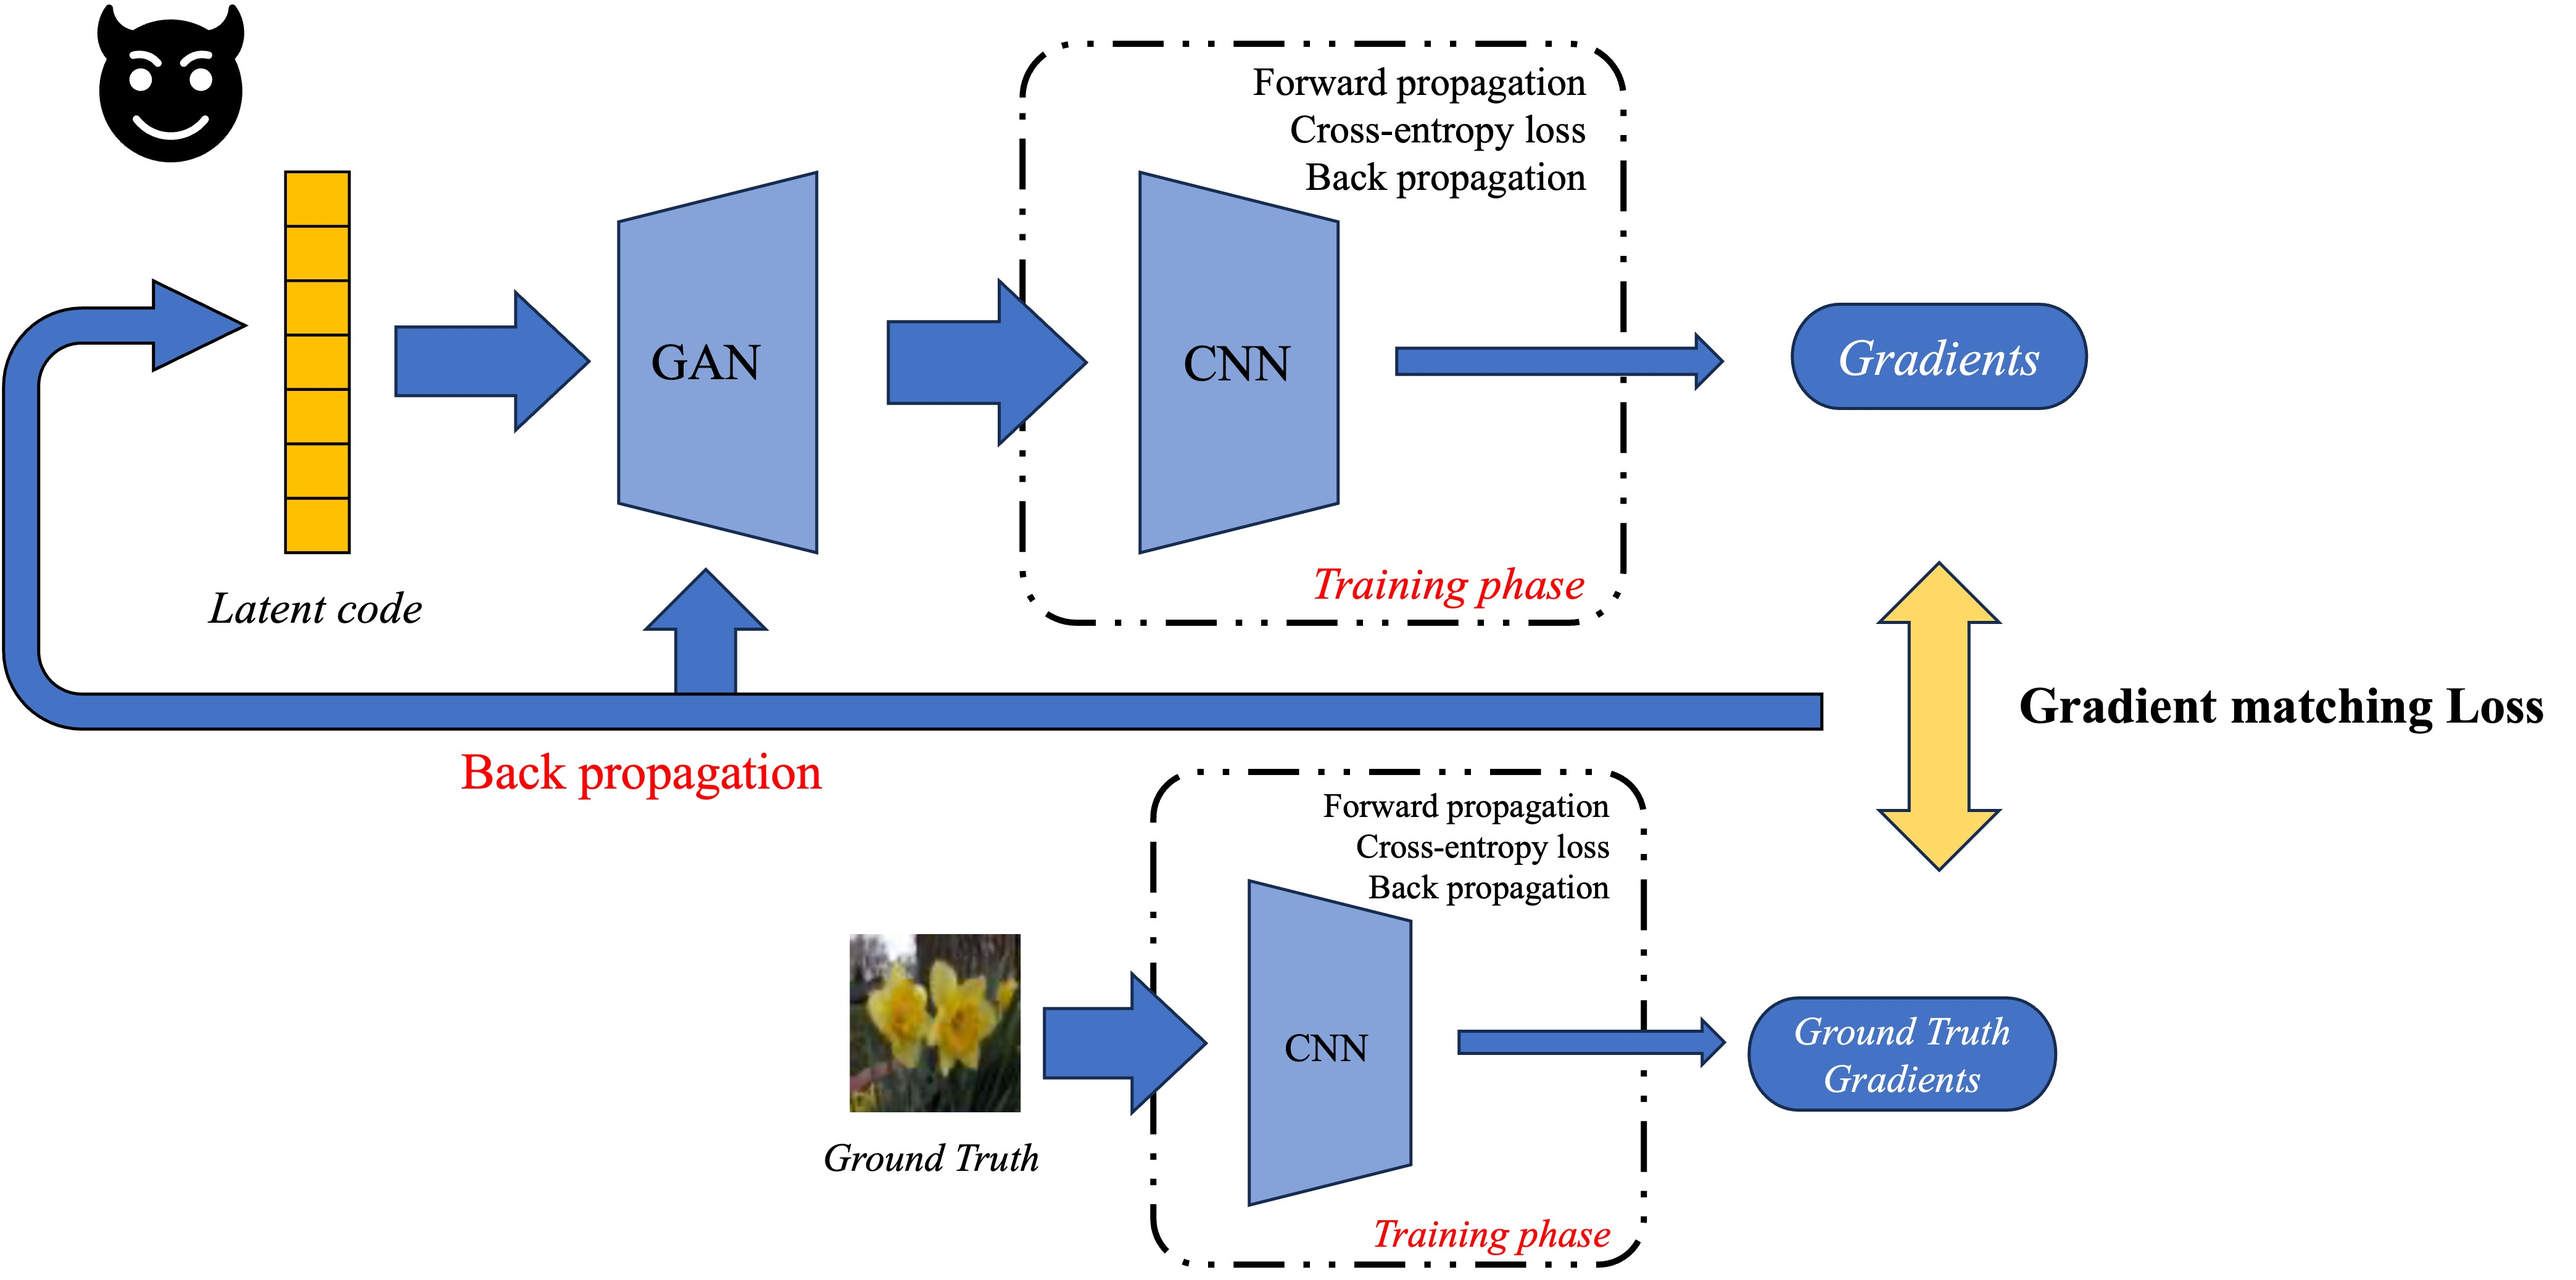
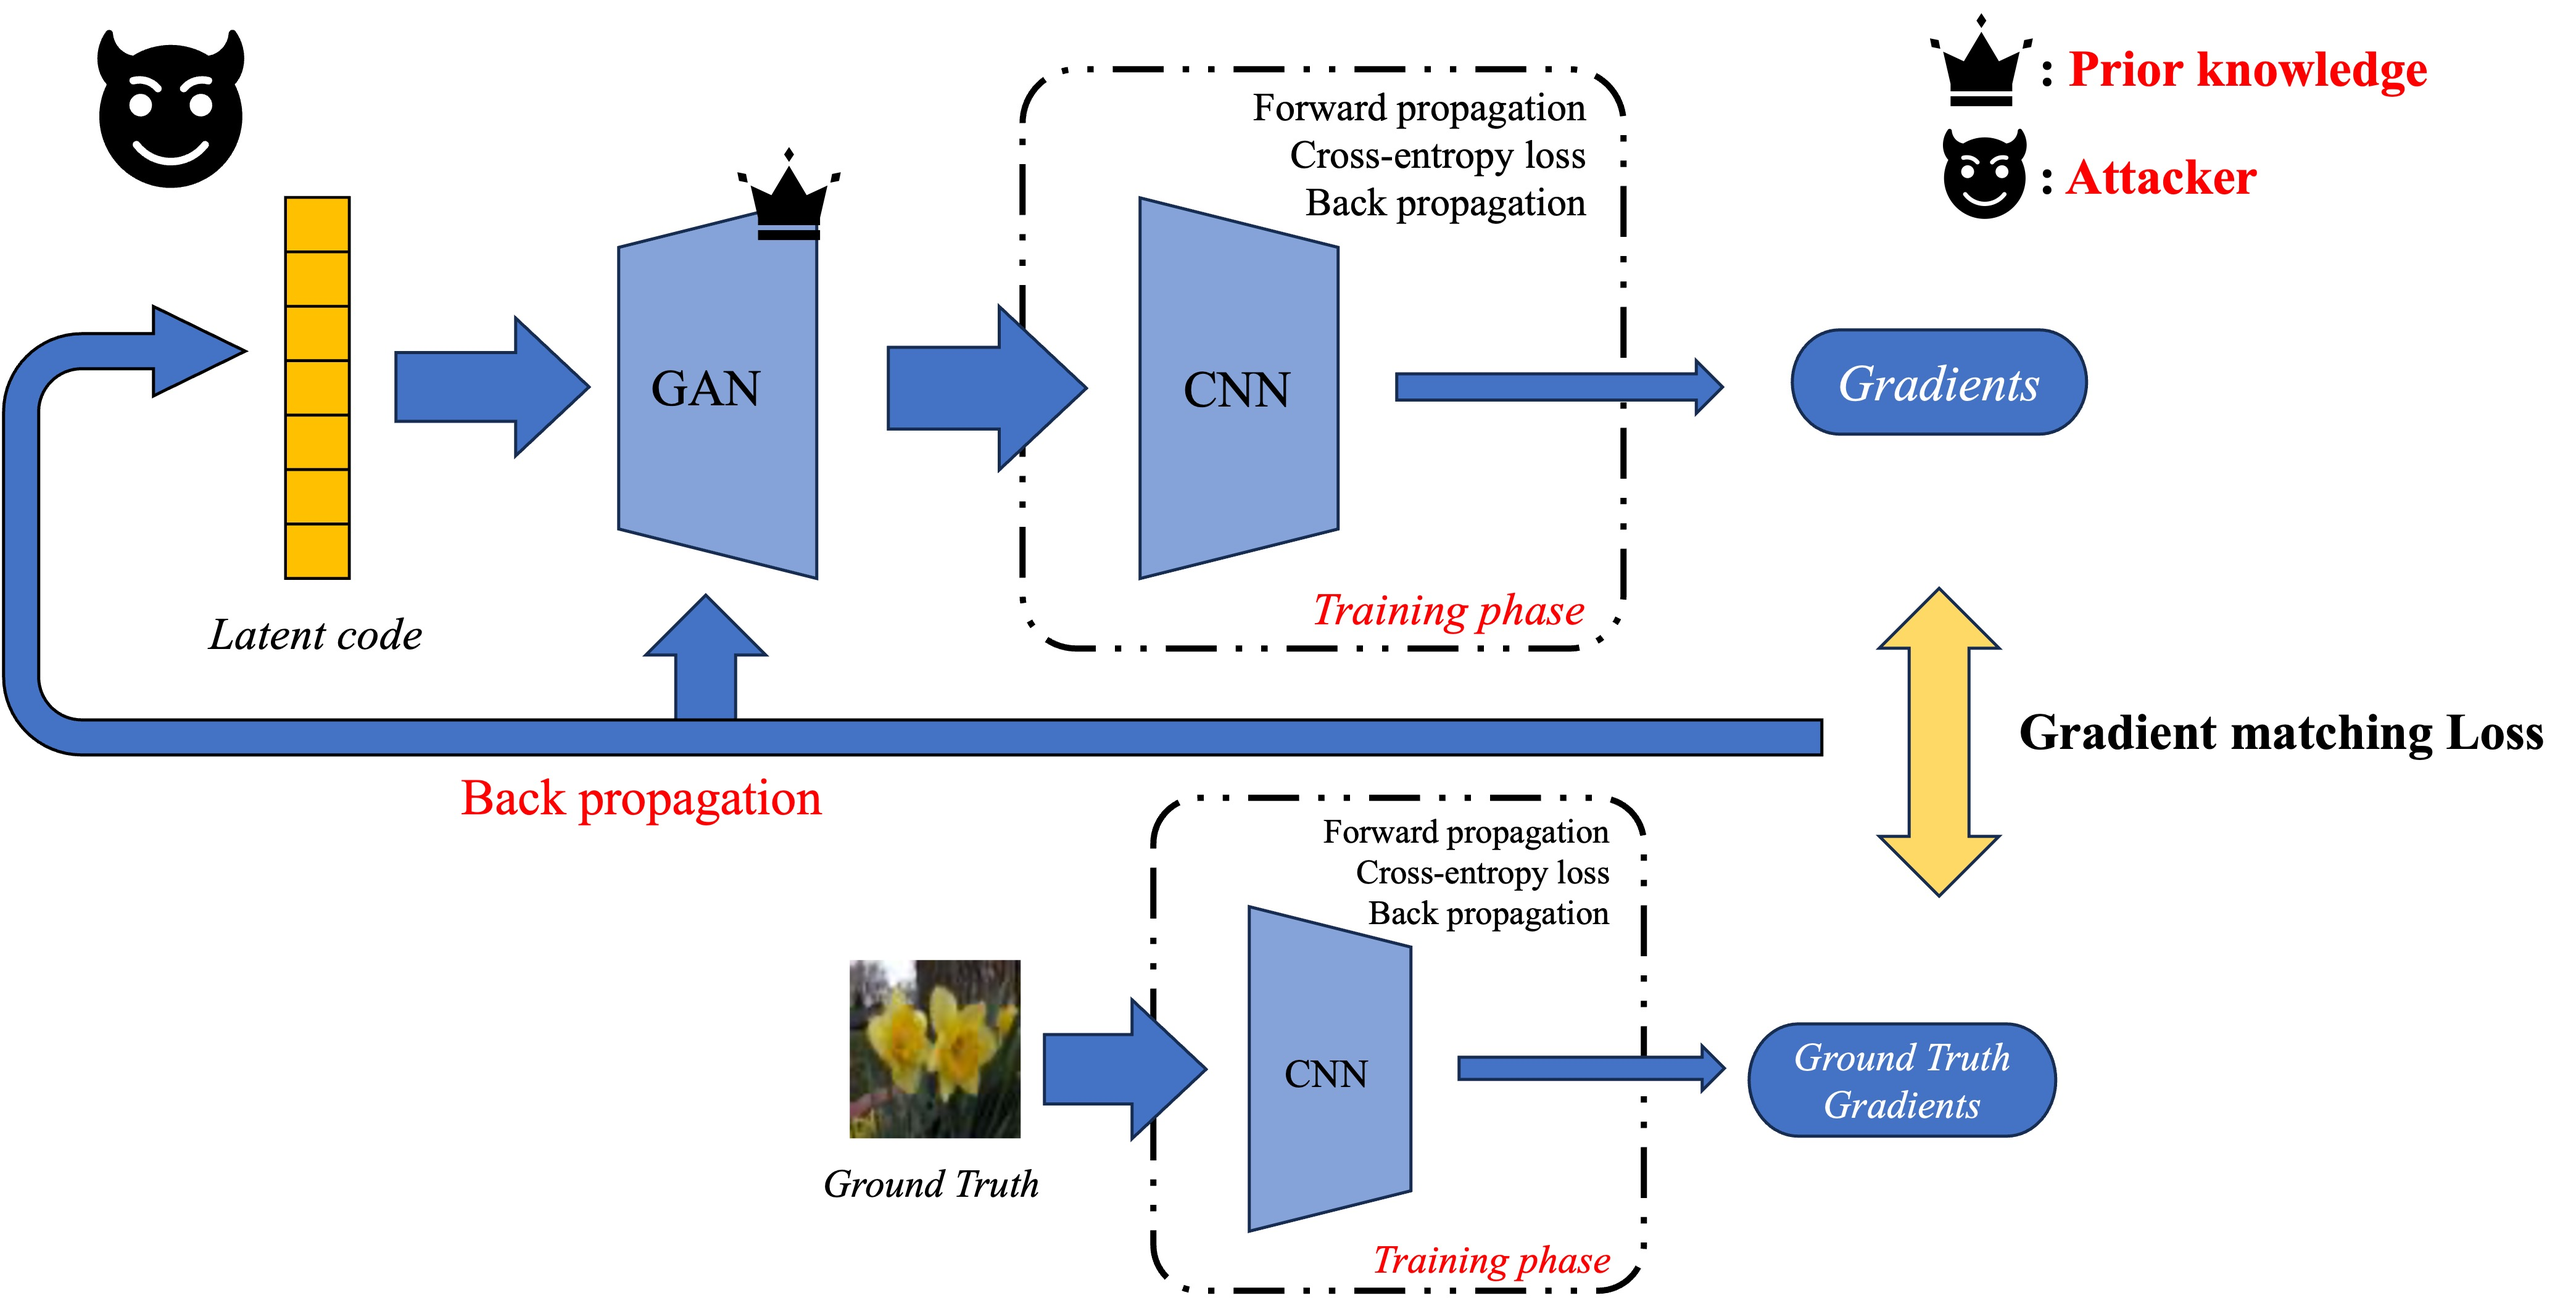
cache

diff --git a/_posts/2024-05-07-Understand-gradient-inversion-attacks-from-the-prior-knowledge-perspective.md b/_posts/2024-05-07-Understand-gradient-inversion-attacks-from-the-prior-knowledge-perspective.md
@@ -1,7 +1,7 @@
 ---
 layout: distill
 title: Understanding gradient inversion attacks from the prior knowledge perspective
-description: In this blogpost, we mention multiple works in gradient inversion attacks, point out the core question we need to solve in GIAs and provide an perspective from prior knowledge to understand the logic behind recent papers.
+description: In this blogpost, we mention multiple works in gradient inversion attacks, point out the core question we need to solve in GIAs, and provide a perspective from prior knowledge to understand the logic behind recent papers.
 date: 2024-11-27
 future: true
 htmlwidgets: true
@@ -70,23 +70,45 @@ This is a **white-box** attack, for its requirement for full model parameters to
 ## The core question in GIAs
 In GIA, the core question, which has not been solved yet, is the reconstruction of batched input data, where **multiple samples share the same labels**. Previous works headed towards such a goal by a few steps: they first recovered single input data, then extended them to batches with known labels, and added a new algorithm to recover batched one-hot labels before recovering input images. However, to the best of my knowledge, it is still limited to the situation where **for every class there could be at most one sample in a batch**. Batched data recovery with repeated labels is still a failure for all current algorithms. The key reason for this failure lies in the information discard of averaged gradients.
 ### A simple example of information discards in MLPs
-Here we conduct a simple experiment to illustrate the existence of information discard in GIAs. We pick a 4-layer MLP as the target neural network and randomly select a few images from the Flowers-17 dataset as the private input data for recovery. Without any assistance from prior knowledge, $l_2$ and Cosine similarity loss are considered as the gradient matching functions.
-<div class="row mt-3">
-    <div class="bs1_l2">
+Let's first take a look at a simple neural network: MLP. In a specific layer, it takes in intermediate features $\mathbf{x}$ and outputs a result of matrix multiplication $\mathbf{z}=\mathbf{Wx}+\mathbf{b}$. To recover the input from gradients, we could simply use the bias attack<d-cite key="geiping2020inverting"></d-cite>:
+
+$$\frac{\partial \mathcal{L}}{\partial {\mathbf{W}}}=\frac{\partial \mathcal{L}}{\partial \mathbf{z}} \times \frac{\partial \mathbf{z}}{\partial {\mathbf{W}}}=\frac{\partial \mathcal{L}}{\partial {b}}\mathbf{x}^\mathrm{T}$$
+
+In the above equation, it is clear that for a single input, with full access to model weights and gradients, the gradients of the MLP contain full information to execute single-image recovery. However, if the batchsize is enlarged, the size of gradient vectors remains unchanged, then this is where information discards appear. Consider such a situation where there are two inputs for the specific layer without activations, then we have
+
+$$\frac{\partial \mathcal{L}}{\partial {\mathbf{W}}}=\frac{\partial \frac{\mathcal{L_1}+\mathcal{L_2}}{2}}{\partial \mathbf{W}}=\frac{1}{2}\frac{\partial \mathcal{L_1}}{\partial \mathbf{W}}+\frac{1}{2}\frac{\partial \mathcal{L_2}}{\partial \mathbf{W}}=\frac{\partial \mathcal{L_1}}{\partial {b}}\mathbf{x_1}^\mathrm{T}+\frac{\partial \mathcal{L_2}}{\partial {b}}\mathbf{x_2}^\mathrm{T}$$
+
+Now it is pretty hard to conclude that $\mathbf{x_1}$ and $\mathbf{x_2}$ can be uniquely and accurately solved from gradients because the introduction of addition operator enlarges the feasible solution set. For a real MLP with multiple layers and activations, it only gets more complicated and less likely to recover unique, accurate input images.
+
+Here, we conduct a simple experiment to illustrate the existence of information discard in GIAs. We pick a 4-layer MLP as the target neural network and randomly select a few images from the Flowers-17 dataset as the private input data for recovery. Without any assistance from prior knowledge, $l_2$ and Cosine similarity loss are considered as the gradient matching functions. firstly, we provide an example of input image recovery when **batchsize=1 with known labels**.
+
+<div class="row">
+    <div class="col-sm-4 offset-md-2">
         {% include figure.html path="assets/img/2024-05-07-Understand-gradient-inversion-attacks-from-the-prior-knowledge-perspective/bs1_l2.gif" class="img-fluid rounded z-depth-1" %}
     </div>
-    <div class="bs1_cos">
+    <div class="col-sm-4 offset-md-0">
         {% include figure.html path="assets/img/2024-05-07-Understand-gradient-inversion-attacks-from-the-prior-knowledge-perspective/bs1_cos.gif" class="img-fluid rounded z-depth-1" %}
     </div>
 </div>
+<div class="caption">
+      Image reconstruction with $l_2$ loss (left) and cosine similarity loss (right). no regularization terms are adopted.
+</div>
+
+It is not surprising that both functions could recover the input data well, even though there still exists tiny noises. Such a good performance is mainly because FCN's gradients contain enough information of intermediate features for single inputs. From related literatures, we could conclude that GIA works well on single inputs with ground-truth one-hot labels.
+
+This problem is also covered in R-GAP, a recursive attack to recover input images from gradients. This series of works start from the equation solving perspective,  expecting to solve the intermediate vector layer by layer recursively, and finally get the input of the first layer (input image). 
+
 ## Understanding GIA from the prior Knowledge perspective
 Realizing the information discards, reviewing the recent paper through the prior knowledge perspective may help understand the logic better. To achieve better image reconstruction quality, it is natural to consider the prior knowledge of images as the complement. Here, the prior knowledge could be explained in three aspects.
 
 ### Unparameterized regularization terms
-In Geiping's work of IG<d-cite key="geiping2020inverting"></d-cite>, they utilize the total variance as a regularization because they believe a real image taken from nature should have a small total variance. That is the first prior knowledge term utilized in the gradient matching function, and it turns out to function well. After that, in GradInversion<d-cite key="yin2021see"></d-cite> this regularization term is extended to include batch normalization supervision, $$l_2$$ norms and group consistency. This is a stronger prior knowledge implying that a real input image, or batched real images, except for total variance, should also possess lower $$l_2$$ norms, proper intermediate mean and the variance for batch normalization layers. Apart from that, all reconstructions from different random initializations ought to reach a group consistency. These terms are unparameterized, and it is clearly demonstrated in their ablation experiments that these terms matter significantly in reconstructing high-quality images.
+In IG<d-cite key="geiping2020inverting"></d-cite>, they utilize the total variance as a regularization because they believe a real image taken from nature should have a small total variance. That is the first prior knowledge term utilized in the gradient matching function, and it turns out to function well. After that, in GradInversion<d-cite key="yin2021see"></d-cite> this regularization term is extended to include batch normalization supervision, $$l_2$$ norms and group consistency. This is a stronger prior knowledge implying that a real input image, or batched real images, except for total variance, should also possess lower $$l_2$$ norms, proper intermediate mean and the variance for batch normalization layers. Apart from that, all reconstructions from different random initializations ought to reach a group consistency. These terms are unparameterized, and it is clearly demonstrated in their ablation experiments that these terms matter significantly in reconstructing high-quality images.
 ### Generative models
-Keep following the logic that recent works require some other conditions as prior knowledge to reinforce the information discards from gradients, generative models, especially GANs, could serve as a strong tool to encode what "real images" should be. The way to add GAN's generator in gradient matching processes is simple<d-cite key="jeon2021gradient"></d-cite>: instead of optimizing direct image pixels, with the generator we could keep the backpropagation way back to the latent space, then alter the latent code as well as the parameter of the generator to produce recovered images. Pre-trained generators naturally encode a likely distribution of the input data, which is a stronger prior knowledge compared with previous unparameterized regularization terms.
+Keep following the logic that recent works require some other conditions as prior knowledge to reinforce the information discards from gradients, generative models, especially GANs, could serve as a strong tool to encode what "real images" should be. The way to add GAN's generator in gradient matching processes is simple<d-cite key="jeon2021gradient"></d-cite>: instead of optimizing direct image pixels, with the generator we could keep the backpropagation way back to the latent space, then alter the latent code as well as the parameters of the generator to produce recovered images. Pre-trained generators naturally encode a likely distribution of the input data, which is a stronger prior knowledge compared with previous unparameterized regularization terms.
 {% include figure.html path="assets/img/2024-05-07-Understand-gradient-inversion-attacks-from-the-prior-knowledge-perspective/Picture2.jpg" class="img-fluid" %}
 ### End-to-end networks
 Actually, the most intuitive way to conduct a GIA is to design a function that takes gradients as input and then outputs recovered images. For a target network, image-gradient tuples are easy to collect, therefore the prior knowledge could be encoded in such an end-to-end neural network through model training.  
+{% include figure.html path="assets/img/2024-05-07-Understand-gradient-inversion-attacks-from-the-prior-knowledge-perspective/Picture3.jpg" class="img-fluid" %}
+
+Here, the neural network resembles a GAN generator which takes in representation vectors and outputs a synthesized image. However, instead of abstract latent codes, such network recieves gradient vectors to generate images. In implementations, Wu et.al<d-cite key="wu2023learning"></d-cite> utilizes *feature hashing* to reduce the dimension of gradient vectors. For network picking, they use a simple 3-layer MLP to generate flattened images, which is different from widely-used GAN sturctures.
 However, such a method faces multiple difficulties, such as large input sizes and limited structural flexibility.

diff --git a/_posts/2024-05-07-distill-example.md b/_posts/2024-05-07-distill-example.md
@@ -119,10 +119,10 @@ Some more complex ways to load images (note the different styles of the shapes/s
 </div>
 
 <div class="row mt-3">
-    <div class="col-sm mt-3 mt-md-0">
+    <div class="col-lg mt-3 mt-md-0">
         {% include figure.html path="assets/img/2024-05-07-distill-example/8.jpg" class="img-fluid z-depth-2" %}
     </div>
-    <div class="col-sm mt-3 mt-md-0">
+    <div class="col-lg mt-3 mt-md-0">
         {% include figure.html path="assets/img/2024-05-07-distill-example/10.jpg" class="img-fluid z-depth-2" %}
     </div>
 </div>
